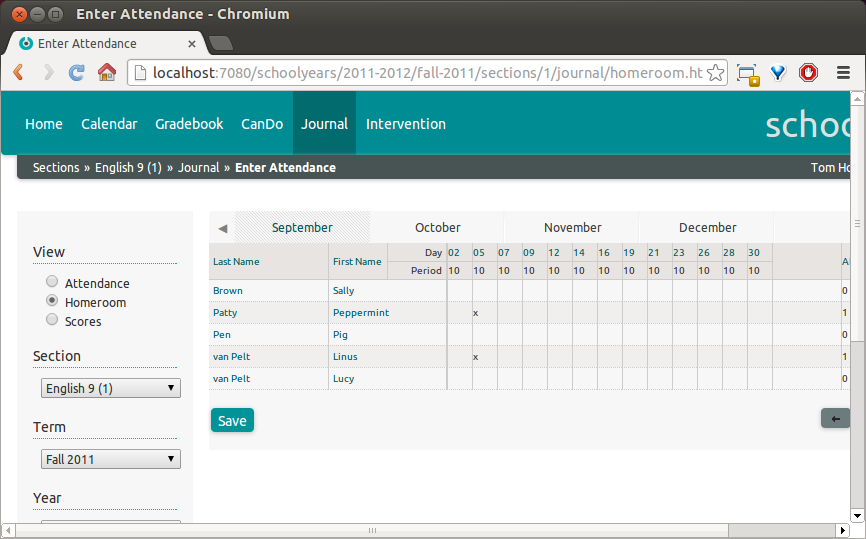
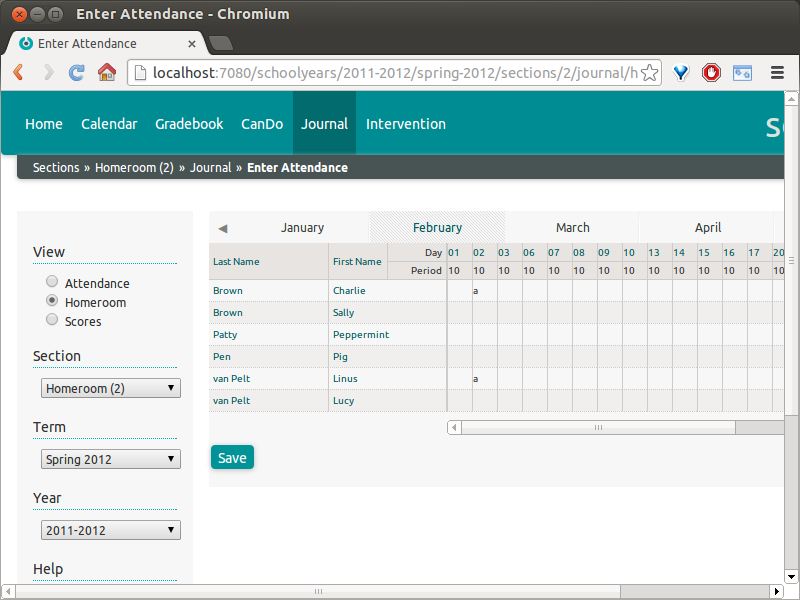
Added homeroom attendance.  Started scoring.

diff --git a/source/journal-scores.rst b/source/journal-scores.rst
@@ -28,4 +28,30 @@ The **Absences** column totals the student's absences for the entire Term (not j
 
 The **Average** column provides the average of the numeric scores for the term.  Note that if no score is entered for a given day, it is not included in the calculation.  That is, an empty cell does not equal "0" when the average is calculated.
 
+Homeroom Attendance
+-------------------
 
+Homeroom attendance is used in systems where a student is marked as present/absent/tardy for the entire day, based primarily on their attendance a specific period.  This is set up as part of :ref:`timetables`.  This is commonly used in primary schools; many secondary schools and almost all post-secondary school do not use homeroom attendance.
+
+Exactly how homeroom attendance should interact with section attendance the rest of the day involves somewhat complex and context-specific logic.  To keep the system simple and transparent, homeroom attendance currently has no automatic effect on section attendance during the rest of the day.  What *does* happen is that whenever homeroom attendance is recorded, each cell in the section attendance views is split to display the child's homeroom attendance record for the relevant day above where the section attendance is entered.
+
+That is, the teacher in each section is notified of the student's status in homeroom, but the school may still want them to explicitly mark the absence in each section.  The system does not automatically mark students who are absent in homeroom as absent for all the day's sections.
+
+For example, here I have set Charlie Brown and Linus as absent in homeroom for February 2:
+
+   .. image:: images/journal-scores-4.png
+
+Switching to the section view, I now see the split cell view.  The "a" in the blue, upper part of the cells indicates that the student was marked absent in homeroom.
+
+   .. image:: images/journal-scores-5.png
+
+Note that even the section that is considered the homeroom period does *not* automatically apply the homeroom status to the section status.  To confirm the absence for the section meeting, you must enter the status again in the lower half of the cell.
+
+   .. image:: images/journal-scores-6.png
+
+Entering Scores in the Journal
+------------------------------
+
+Enter scores in the Journal by selecting the **Scores** view.  
+
+   .. image:: images/journal-scores-7.png
